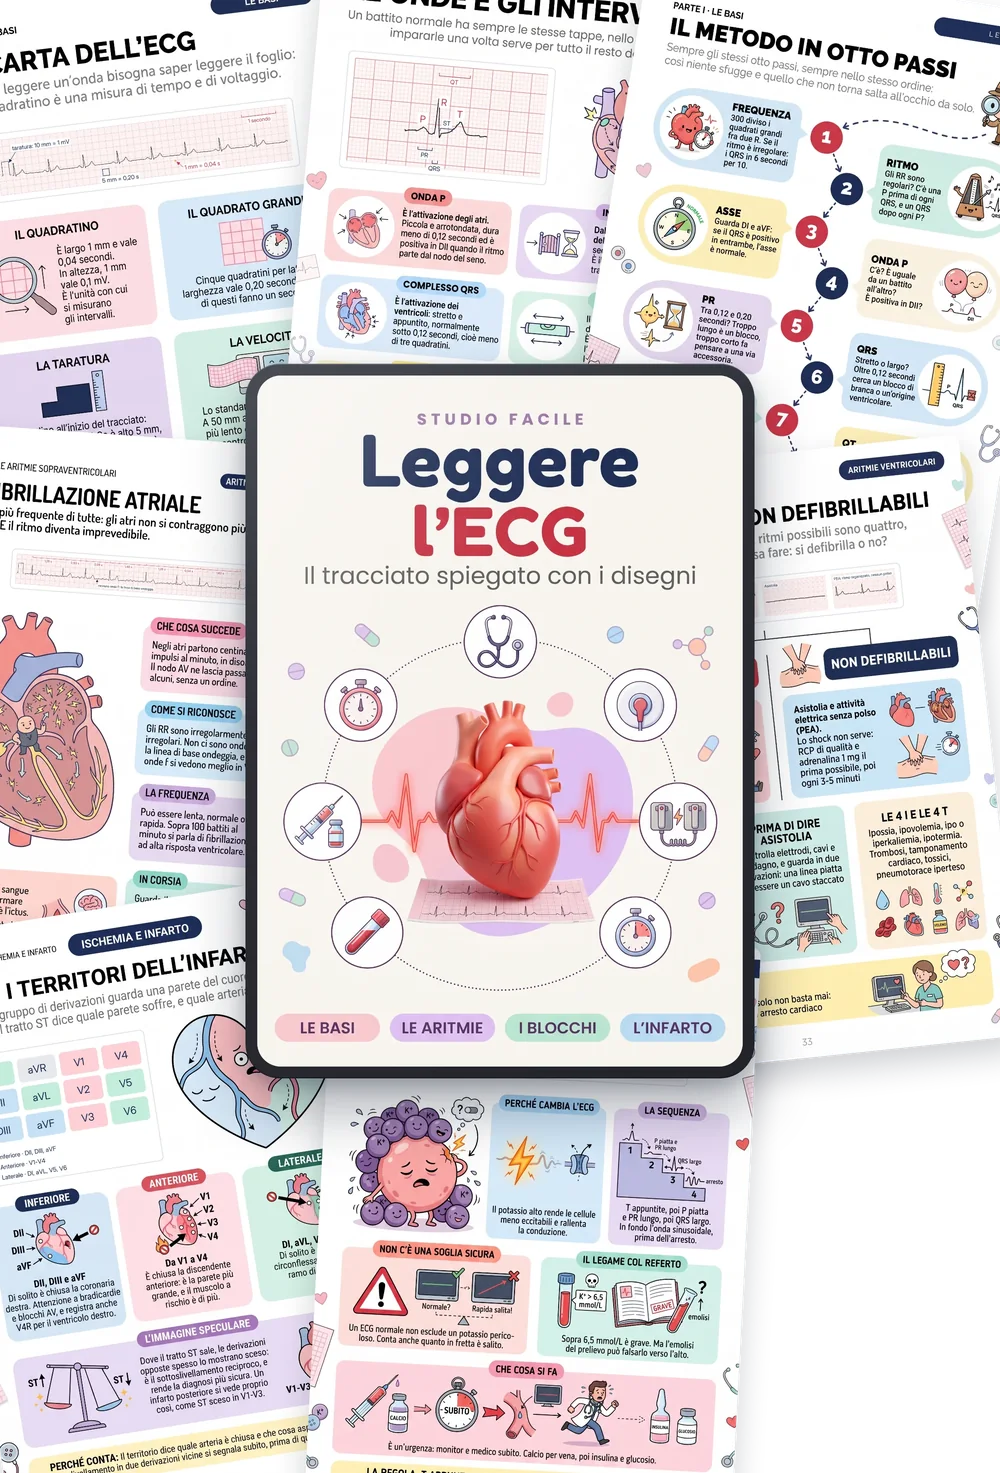
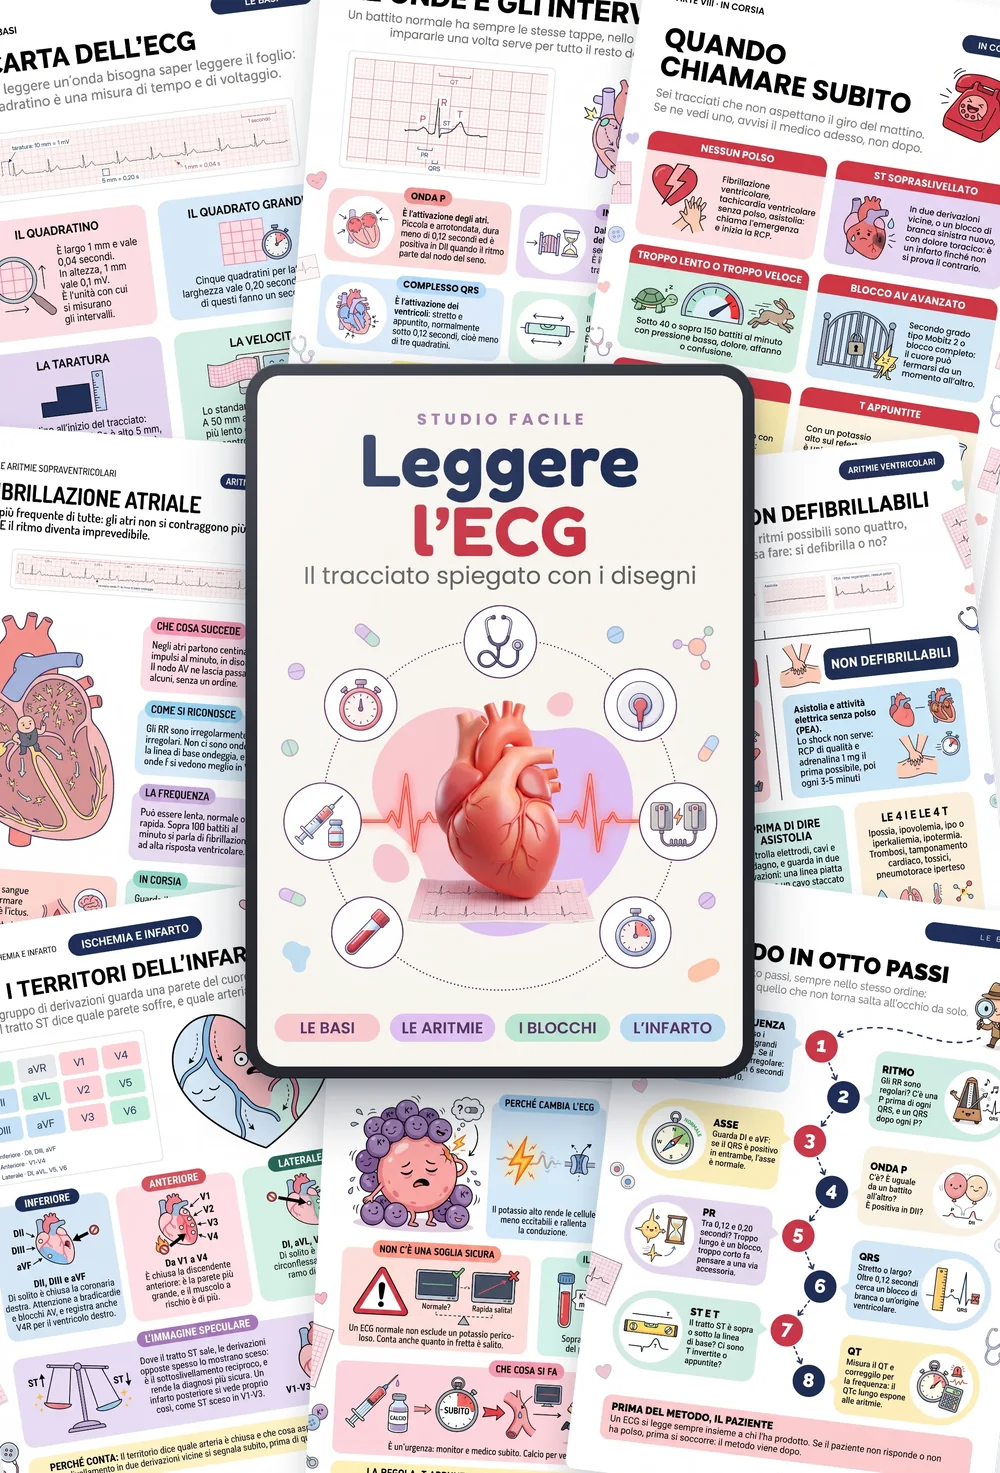
Landing /ecg: collage con otto pagine (nuova «Quando chiamare subito», il metodo in basso a destra); immagini versionate contro la cache

Changed region(s): [[0.558, 0.5933, 1.0, 1.0], [0.589, 0.0, 1.0, 0.3435]]

diff --git a/ecg.html b/ecg.html
@@ -2131,7 +2131,7 @@
   <section class="hero">
     <div class="hero-content">
       <div class="hero-mockup">
-        <img src="https://czocbnyoenjbpxmcqobn.supabase.co/storage/v1/object/public/algoritmia-img/studiofacile/mockups/ecg/hero.webp" alt="Leggere l'ECG, con Farmaci in Emergenza e Leggere gli Esami di Laboratorio in regalo"
+        <img src="https://czocbnyoenjbpxmcqobn.supabase.co/storage/v1/object/public/algoritmia-img/studiofacile/mockups/ecg/hero.webp?v=1666f53c" alt="Leggere l'ECG, con Farmaci in Emergenza e Leggere gli Esami di Laboratorio in regalo"
              width="1200" height="886" loading="eager" fetchpriority="high" decoding="async">
       </div>
       <p class="hero-social">
@@ -2181,43 +2181,43 @@
         <div class="testimonials-scroll" id="amostras-scroll" role="list" data-no-autoplay>
           <article class="testimonial-item amostra-item" role="listitem">
             <button type="button" class="amostra-btn" data-galleria="ecg" data-galleria-pagina="0" aria-label="Ingrandisci: La carta dell'ECG">
-              <img src="https://czocbnyoenjbpxmcqobn.supabase.co/storage/v1/object/public/algoritmia-img/studiofacile/anteprime/ecg_01.webp" alt="La carta dell'ECG" width="1100" height="1473" loading="lazy" decoding="async">
+              <img src="https://czocbnyoenjbpxmcqobn.supabase.co/storage/v1/object/public/algoritmia-img/studiofacile/anteprime/ecg_01.webp?v=8a7d5d9a" alt="La carta dell'ECG" width="1100" height="1473" loading="lazy" decoding="async">
               <span class="amostra-cap">La carta dell'ECG</span>
             </button>
           </article>
           <article class="testimonial-item amostra-item" role="listitem">
             <button type="button" class="amostra-btn" data-galleria="ecg" data-galleria-pagina="1" aria-label="Ingrandisci: Le onde e gli intervalli">
-              <img src="https://czocbnyoenjbpxmcqobn.supabase.co/storage/v1/object/public/algoritmia-img/studiofacile/anteprime/ecg_02.webp" alt="Le onde e gli intervalli" width="1100" height="1473" loading="lazy" decoding="async">
+              <img src="https://czocbnyoenjbpxmcqobn.supabase.co/storage/v1/object/public/algoritmia-img/studiofacile/anteprime/ecg_02.webp?v=cc7e4603" alt="Le onde e gli intervalli" width="1100" height="1473" loading="lazy" decoding="async">
               <span class="amostra-cap">Le onde e gli intervalli</span>
             </button>
           </article>
           <article class="testimonial-item amostra-item" role="listitem">
             <button type="button" class="amostra-btn" data-galleria="ecg" data-galleria-pagina="2" aria-label="Ingrandisci: Il metodo in otto passi">
-              <img src="https://czocbnyoenjbpxmcqobn.supabase.co/storage/v1/object/public/algoritmia-img/studiofacile/anteprime/ecg_03.webp" alt="Il metodo in otto passi" width="1100" height="1473" loading="lazy" decoding="async">
+              <img src="https://czocbnyoenjbpxmcqobn.supabase.co/storage/v1/object/public/algoritmia-img/studiofacile/anteprime/ecg_03.webp?v=0b1c2f54" alt="Il metodo in otto passi" width="1100" height="1473" loading="lazy" decoding="async">
               <span class="amostra-cap">Il metodo in otto passi</span>
             </button>
           </article>
           <article class="testimonial-item amostra-item" role="listitem">
             <button type="button" class="amostra-btn" data-galleria="ecg" data-galleria-pagina="3" aria-label="Ingrandisci: La fibrillazione atriale">
-              <img src="https://czocbnyoenjbpxmcqobn.supabase.co/storage/v1/object/public/algoritmia-img/studiofacile/anteprime/ecg_04.webp" alt="La fibrillazione atriale" width="1100" height="1473" loading="lazy" decoding="async">
+              <img src="https://czocbnyoenjbpxmcqobn.supabase.co/storage/v1/object/public/algoritmia-img/studiofacile/anteprime/ecg_04.webp?v=f5900fae" alt="La fibrillazione atriale" width="1100" height="1473" loading="lazy" decoding="async">
               <span class="amostra-cap">La fibrillazione atriale</span>
             </button>
           </article>
           <article class="testimonial-item amostra-item" role="listitem">
             <button type="button" class="amostra-btn" data-galleria="ecg" data-galleria-pagina="4" aria-label="Ingrandisci: Defibrillabili e non defibrillabili">
-              <img src="https://czocbnyoenjbpxmcqobn.supabase.co/storage/v1/object/public/algoritmia-img/studiofacile/anteprime/ecg_05.webp" alt="Defibrillabili e non defibrillabili" width="1100" height="1473" loading="lazy" decoding="async">
+              <img src="https://czocbnyoenjbpxmcqobn.supabase.co/storage/v1/object/public/algoritmia-img/studiofacile/anteprime/ecg_05.webp?v=204bdeae" alt="Defibrillabili e non defibrillabili" width="1100" height="1473" loading="lazy" decoding="async">
               <span class="amostra-cap">Defibrillabili e non defibrillabili</span>
             </button>
           </article>
           <article class="testimonial-item amostra-item" role="listitem">
             <button type="button" class="amostra-btn" data-galleria="ecg" data-galleria-pagina="5" aria-label="Ingrandisci: I territori dell'infarto">
-              <img src="https://czocbnyoenjbpxmcqobn.supabase.co/storage/v1/object/public/algoritmia-img/studiofacile/anteprime/ecg_06.webp" alt="I territori dell'infarto" width="1100" height="1473" loading="lazy" decoding="async">
+              <img src="https://czocbnyoenjbpxmcqobn.supabase.co/storage/v1/object/public/algoritmia-img/studiofacile/anteprime/ecg_06.webp?v=d96041dc" alt="I territori dell'infarto" width="1100" height="1473" loading="lazy" decoding="async">
               <span class="amostra-cap">I territori dell'infarto</span>
             </button>
           </article>
           <article class="testimonial-item amostra-item" role="listitem">
             <button type="button" class="amostra-btn" data-galleria="ecg" data-galleria-pagina="6" aria-label="Ingrandisci: L'iperkaliemia">
-              <img src="https://czocbnyoenjbpxmcqobn.supabase.co/storage/v1/object/public/algoritmia-img/studiofacile/anteprime/ecg_07.webp" alt="L'iperkaliemia" width="1100" height="1473" loading="lazy" decoding="async">
+              <img src="https://czocbnyoenjbpxmcqobn.supabase.co/storage/v1/object/public/algoritmia-img/studiofacile/anteprime/ecg_07.webp?v=ad4d9502" alt="L'iperkaliemia" width="1100" height="1473" loading="lazy" decoding="async">
               <span class="amostra-cap">L'iperkaliemia</span>
             </button>
           </article>
@@ -2238,7 +2238,7 @@
         <p class="text-center">Quasi tutti i manuali mostrano onde perfette, disegnate a mano: linee pulite, nessun rumore, ogni onda al suo posto.</p>
         <p class="text-center">Poi arrivi in reparto e il tracciato che hai davanti <strong>non assomiglia a nessuno di quelli che hai studiato</strong>.</p>
         <div class="solution-image">
-          <img src="https://czocbnyoenjbpxmcqobn.supabase.co/storage/v1/object/public/algoritmia-img/studiofacile/mockups/ecg/striscia.webp" alt="Striscia di ritmo vera in derivazione II su carta millimetrata" width="1600" height="279" loading="lazy" decoding="async">
+          <img src="https://czocbnyoenjbpxmcqobn.supabase.co/storage/v1/object/public/algoritmia-img/studiofacile/mockups/ecg/striscia.webp?v=401d762f" alt="Striscia di ritmo vera in derivazione II su carta millimetrata" width="1600" height="279" loading="lazy" decoding="async">
         </div>
         <p class="text-center">Per questo ogni tracciato del libro viene da <strong>PTB-XL</strong>: una raccolta pubblica di <strong>21.799 ECG a 12 derivazioni di 18.869 pazienti</strong>, ciascuno refertato da cardiologi e pubblicato su PhysioNet.</p>
         <p class="text-center">Sono disegnati sulla carta vera, a 25 mm al secondo e 10 mm per millivolt, come esce dall'elettrocardiografo. Il disegno intorno ti dice <strong>dove guardare</strong>; il tracciato resta quello di un paziente vero.</p>
@@ -2262,7 +2262,7 @@
             <li>Non sai dove guardare</li>
             <li>Il dubbio arriva quando non c'è tempo</li>
           </ul>
-          <img src="https://czocbnyoenjbpxmcqobn.supabase.co/storage/v1/object/public/algoritmia-img/studiofacile/mockups/ecg/questo.webp" alt="Un ECG a 12 derivazioni senza nessuna spiegazione" width="1200" height="1600" loading="lazy" decoding="async">
+          <img src="https://czocbnyoenjbpxmcqobn.supabase.co/storage/v1/object/public/algoritmia-img/studiofacile/mockups/ecg/questo.webp?v=dfc7ac69" alt="Un ECG a 12 derivazioni senza nessuna spiegazione" width="1200" height="1600" loading="lazy" decoding="async">
         </div>
         <div class="comparison-card good-card">
           <div class="comparison-label good">PER QUESTO</div>
@@ -2271,7 +2271,7 @@
             <li>Il disegno ti indica cosa cercare</li>
             <li>Lo riconosci al primo sguardo</li>
           </ul>
-          <img src="https://czocbnyoenjbpxmcqobn.supabase.co/storage/v1/object/public/algoritmia-img/studiofacile/anteprime/ecg_01.webp" alt="La carta dell'ECG spiegata con le illustrazioni" width="1100" height="1473" loading="lazy" decoding="async">
+          <img src="https://czocbnyoenjbpxmcqobn.supabase.co/storage/v1/object/public/algoritmia-img/studiofacile/anteprime/ecg_01.webp?v=8a7d5d9a" alt="La carta dell'ECG spiegata con le illustrazioni" width="1100" height="1473" loading="lazy" decoding="async">
         </div>
       </div>
     </div>
@@ -2389,7 +2389,7 @@
         <p class="text-center">Invece di cercare di ricordare cinquanta pattern diversi...</p>
         <p class="text-center">...segui <strong>sempre gli stessi otto passi</strong>, nello stesso ordine: frequenza, ritmo, asse, onda P, PR, QRS, tratto ST, QT.</p>
         <div class="solution-image">
-          <img src="https://czocbnyoenjbpxmcqobn.supabase.co/storage/v1/object/public/algoritmia-img/studiofacile/anteprime/ecg_03.webp" alt="Il metodo in otto passi per leggere un ECG, illustrato" width="1100" height="1473" loading="lazy" decoding="async">
+          <img src="https://czocbnyoenjbpxmcqobn.supabase.co/storage/v1/object/public/algoritmia-img/studiofacile/anteprime/ecg_03.webp?v=0b1c2f54" alt="Il metodo in otto passi per leggere un ECG, illustrato" width="1100" height="1473" loading="lazy" decoding="async">
         </div>
         <p class="text-center">Il tuo cervello <strong>smette di cercare a caso</strong>. Ogni tracciato diventa una lista da spuntare, e quello che non torna salta all'occhio da solo.</p>
         <p class="text-center" style="font-size: 22px; font-weight: 700; margin-top: 40px;">È esattamente questo che fa Leggere l'ECG.</p>
@@ -2404,7 +2404,7 @@
     <div class="container">
       <h2 class="text-center">Ecco Cosa Riceverai Acquistando Leggere l'ECG:</h2>
       <div style="margin: 20px auto 28px;">
-        <img src="https://czocbnyoenjbpxmcqobn.supabase.co/storage/v1/object/public/algoritmia-img/studiofacile/mockups/ecg/combo.webp" alt="Leggere l'ECG: mockup con pagine di esempio" width="1000" height="1473" loading="lazy" decoding="async" style="max-width: 480px; width: 100%; display: block; margin: 0 auto;">
+        <img src="https://czocbnyoenjbpxmcqobn.supabase.co/storage/v1/object/public/algoritmia-img/studiofacile/mockups/ecg/combo.webp?v=7522eabe" alt="Leggere l'ECG: mockup con pagine di esempio" width="1000" height="1473" loading="lazy" decoding="async" style="max-width: 480px; width: 100%; display: block; margin: 0 auto;">
       </div>
       <div class="topics-grid">
         <div class="topic-item">
@@ -2490,34 +2490,34 @@
       <div class="bonus-grid">
         <div class="bonus-item-with-image">
           <div class="bonus-mockup">
-            <img src="https://czocbnyoenjbpxmcqobn.supabase.co/storage/v1/object/public/algoritmia-img/studiofacile/mockups/ecg/bonus-emergenza.webp" alt="Farmaci in Emergenza, prontuario illustrato" width="720" height="1000" loading="lazy" decoding="async">
+            <img src="https://czocbnyoenjbpxmcqobn.supabase.co/storage/v1/object/public/algoritmia-img/studiofacile/mockups/ecg/bonus-emergenza.webp?v=e07d12e1" alt="Farmaci in Emergenza, prontuario illustrato" width="720" height="1000" loading="lazy" decoding="async">
           </div>
           <div class="bonus-text">
             <h3>BONUS 1: &ldquo;Farmaci in Emergenza&rdquo;, il prontuario illustrato</h3>
             <p class="value">Valore singolo: 17,90€</p>
             <p>81 pagine sui farmaci che si usano quando il tracciato diventa un'urgenza: <strong>adrenalina, amiodarone, atropina</strong> e gli altri del carrello, con le diluizioni e le dosi da sapere a memoria.</p>
             <p style="margin-top: 12px;">È il volume che completa la parte IV del libro: riconosci il ritmo, e sai già che cosa si prepara.</p>
-            <div class="bonus-sfoglia"><figure><img src="https://czocbnyoenjbpxmcqobn.supabase.co/storage/v1/object/public/algoritmia-img/studiofacile/anteprime/emergenza_04.webp" alt="Le diluizioni che uccidono" width="1100" height="1556" loading="lazy" decoding="async"><figcaption>Le diluizioni che uccidono</figcaption></figure><figure><img src="https://czocbnyoenjbpxmcqobn.supabase.co/storage/v1/object/public/algoritmia-img/studiofacile/anteprime/emergenza_05.webp" alt="Scheda farmaco: amiodarone" width="1100" height="1556" loading="lazy" decoding="async"><figcaption>La scheda dell'amiodarone</figcaption></figure></div>
+            <div class="bonus-sfoglia"><figure><img src="https://czocbnyoenjbpxmcqobn.supabase.co/storage/v1/object/public/algoritmia-img/studiofacile/anteprime/emergenza_04.webp?v=0b2fd0a9" alt="Le diluizioni che uccidono" width="1100" height="1556" loading="lazy" decoding="async"><figcaption>Le diluizioni che uccidono</figcaption></figure><figure><img src="https://czocbnyoenjbpxmcqobn.supabase.co/storage/v1/object/public/algoritmia-img/studiofacile/anteprime/emergenza_05.webp?v=a2bd30fe" alt="Scheda farmaco: amiodarone" width="1100" height="1556" loading="lazy" decoding="async"><figcaption>La scheda dell'amiodarone</figcaption></figure></div>
           </div>
         </div>
 
         <div class="bonus-item-with-image">
           <div class="bonus-mockup">
-            <img src="https://czocbnyoenjbpxmcqobn.supabase.co/storage/v1/object/public/algoritmia-img/studiofacile/mockups/ecg/bonus-laboratorio.webp" alt="Leggere gli Esami di Laboratorio" width="720" height="1000" loading="lazy" decoding="async">
+            <img src="https://czocbnyoenjbpxmcqobn.supabase.co/storage/v1/object/public/algoritmia-img/studiofacile/mockups/ecg/bonus-laboratorio.webp?v=763cd155" alt="Leggere gli Esami di Laboratorio" width="720" height="1000" loading="lazy" decoding="async">
           </div>
           <div class="bonus-text">
             <h3>BONUS 2: &ldquo;Leggere gli Esami di Laboratorio&rdquo;</h3>
             <p class="value">Valore singolo: 16,90€</p>
             <p>72 pagine per leggere un referto: <strong>potassio, calcio, troponina</strong> ed emocromo, con i valori critici e quello che li falsa.</p>
             <p style="margin-top: 12px;">Va letto accanto alla parte VII: un'onda T appuntita e un potassio a 6,8 sono la stessa urgenza vista da due parti.</p>
-            <div class="bonus-sfoglia"><figure><img src="https://czocbnyoenjbpxmcqobn.supabase.co/storage/v1/object/public/algoritmia-img/studiofacile/anteprime/laboratorio_04.webp" alt="I valori critici" width="1100" height="1556" loading="lazy" decoding="async"><figcaption>I valori critici</figcaption></figure><figure><img src="https://czocbnyoenjbpxmcqobn.supabase.co/storage/v1/object/public/algoritmia-img/studiofacile/anteprime/laboratorio_06.webp" alt="Il rene in quattro numeri" width="1100" height="1556" loading="lazy" decoding="async"><figcaption>Il rene in quattro numeri</figcaption></figure></div>
+            <div class="bonus-sfoglia"><figure><img src="https://czocbnyoenjbpxmcqobn.supabase.co/storage/v1/object/public/algoritmia-img/studiofacile/anteprime/laboratorio_04.webp?v=a4f66786" alt="I valori critici" width="1100" height="1556" loading="lazy" decoding="async"><figcaption>I valori critici</figcaption></figure><figure><img src="https://czocbnyoenjbpxmcqobn.supabase.co/storage/v1/object/public/algoritmia-img/studiofacile/anteprime/laboratorio_06.webp?v=ce135aea" alt="Il rene in quattro numeri" width="1100" height="1556" loading="lazy" decoding="async"><figcaption>Il rene in quattro numeri</figcaption></figure></div>
           </div>
         </div>
       </div>
 
       <!-- DECISION BOX -->
       <div class="decision-box" id="offerta">
-        <img src="https://czocbnyoenjbpxmcqobn.supabase.co/storage/v1/object/public/algoritmia-img/studiofacile/mockups/ecg/hero.webp" alt="Leggere l'ECG con i due volumi in regalo" class="db-mockup" width="1200" height="886" loading="lazy" decoding="async">
+        <img src="https://czocbnyoenjbpxmcqobn.supabase.co/storage/v1/object/public/algoritmia-img/studiofacile/mockups/ecg/hero.webp?v=1666f53c" alt="Leggere l'ECG con i due volumi in regalo" class="db-mockup" width="1200" height="886" loading="lazy" decoding="async">
         <h3 class="db-title">Leggere l'ECG + 2 Volumi in Regalo</h3>
         <ul class="db-checklist">
           <li><span class="db-check"><svg viewBox="0 0 24 24"><polyline points="20 6 9 17 4 12"/></svg></span>Leggere l'ECG: 68 pagine illustrate<span class="db-price-val">16,90€</span></li>
@@ -2548,21 +2548,21 @@
       <h2 class="text-center">Questo Materiale Fa per Te?</h2>
       <div class="paraquem-grid">
         <div class="paraquem-card">
-          <img class="paraquem-foto" src="https://czocbnyoenjbpxmcqobn.supabase.co/storage/v1/object/public/algoritmia-img/studiofacile/personagens/estudante.webp" alt="Studente dell'area sanitaria" loading="lazy" width="900" height="672">
+          <img class="paraquem-foto" src="https://czocbnyoenjbpxmcqobn.supabase.co/storage/v1/object/public/algoritmia-img/studiofacile/personagens/estudante.webp?v=ecc215d1" alt="Studente dell'area sanitaria" loading="lazy" width="900" height="672">
           <div class="paraquem-info">
             <h3>Studente di infermieristica o medicina</h3>
             <p>L'ECG è all'esame e in tirocinio, e i manuali lo spiegano come se lo sapessi già. Ti serve partire dalla carta e arrivare all'infarto senza saltare un passaggio.</p>
           </div>
         </div>
         <div class="paraquem-card">
-          <img class="paraquem-foto" src="https://czocbnyoenjbpxmcqobn.supabase.co/storage/v1/object/public/algoritmia-img/studiofacile/personagens/profissional.webp" alt="Infermiere di reparto" loading="lazy" width="900" height="672">
+          <img class="paraquem-foto" src="https://czocbnyoenjbpxmcqobn.supabase.co/storage/v1/object/public/algoritmia-img/studiofacile/personagens/profissional.webp?v=9ac5a0a6" alt="Infermiere di reparto" loading="lazy" width="900" height="672">
           <div class="paraquem-info">
             <h3>Infermiere di reparto o di pronto soccorso</h3>
             <p>Il monitor suona, il tracciato cambia, e sei tu il primo a vederlo. Vuoi capire in pochi secondi se è un artefatto o se devi chiamare subito.</p>
           </div>
         </div>
         <div class="paraquem-card">
-          <img class="paraquem-foto" src="https://czocbnyoenjbpxmcqobn.supabase.co/storage/v1/object/public/algoritmia-img/studiofacile/personagens/recem-formado.webp" alt="Medico in formazione" loading="lazy" width="900" height="672">
+          <img class="paraquem-foto" src="https://czocbnyoenjbpxmcqobn.supabase.co/storage/v1/object/public/algoritmia-img/studiofacile/personagens/recem-formado.webp?v=28a1b989" alt="Medico in formazione" loading="lazy" width="900" height="672">
           <div class="paraquem-info">
             <h3>Medico di guardia o in formazione</h3>
             <p>Di notte, in continuità assistenziale o in reparto, l'ECG lo leggi da solo. Ti serve un metodo sicuro e un ripasso rapido di blocchi, ischemia ed elettroliti.</p>
@@ -2578,7 +2578,7 @@
       <h2 class="text-center">Chi C'è Dietro Studio Facile</h2>
       <div class="author-content">
         <div class="author-image">
-          <img src="https://czocbnyoenjbpxmcqobn.supabase.co/storage/v1/object/public/algoritmia-img/studiofacile/Img-Leandro.webp" alt="Leandro Moretti - Farmacista e Fondatore di Studio Facile" width="300" height="300" loading="lazy" decoding="async">
+          <img src="https://czocbnyoenjbpxmcqobn.supabase.co/storage/v1/object/public/algoritmia-img/studiofacile/Img-Leandro.webp?v=3a563125" alt="Leandro Moretti - Farmacista e Fondatore di Studio Facile" width="300" height="300" loading="lazy" decoding="async">
         </div>
         <div class="author-bio">
           <h3>Leandro Moretti</h3>
